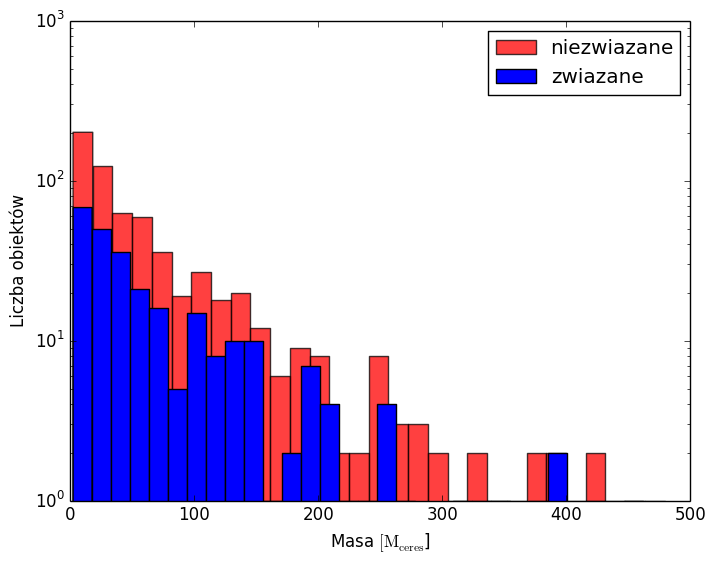
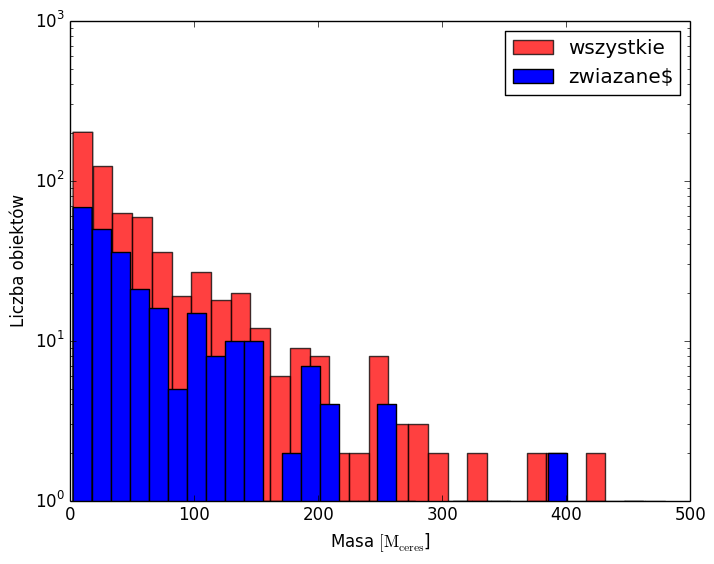
update

Changed region(s): [[0.6779, 0.0301, 0.9552, 0.1809]]

diff --git a/chapters/chapter3.tex b/chapters/chapter3.tex
@@ -615,14 +615,19 @@ masy w celu uwzględnienia wpływu rotacji obłoku na jego kontrakcję, dodatkow
 wzięto pod uwagę możliwy wpływ turbulencji, która nie jest opisywana przyjętym
 modelem
 \begin{equation}
+   \label{eq:ekin}
    \tilde{\mathbf{v}}_i = \mathbf{v}_i - \frac{\sum m_i \mathbf{v}_i}{\sum m_i}
    + \alpha c_s^2,
 \end{equation}
 gdzie wartość $\alpha$ ustalono na $0.05$. Zastosowanie
 kryterium~\mref{eq:bcrit} dla każdego zidentyfikowanego obiektu, pozwolilo na
 oszacowanie że ok. $19\%$ masy pyłu po czasie $T = 250\yr$ skupiła się w formie
-grawitacyjnie związanych obłoków. Szczegółowy histogram mas wszystkich
-zidentyfikowanych obiektów został przedstawiony na Rysunku~\ref{fig:masshist}.
+grawitacyjnie związanych obłoków. Na wynik ten ma wpływ dobór parametru $\alpha$
+ze względu na postać równania energi kinetycznej~\mref{eq:ekin}. Dla $\alpha <
+0.05$ wyraz staje się zaniedbywalny i nie zmienia liczby związanych obłoków
+pyłu. Dla $\alpha = 0.1$ związana masa pyłu spada do $\sim 9\%$ całkowitej masy.
+Szczegółowy histogram mas wszystkich zidentyfikowanych obiektów ($\alpha =
+0.05$) został przedstawiony na Rysunku~\ref{fig:masshist}.
 \begin{figure}
    \centering
    \includegraphics[width=0.49\linewidth]{figures/masshist.png}
